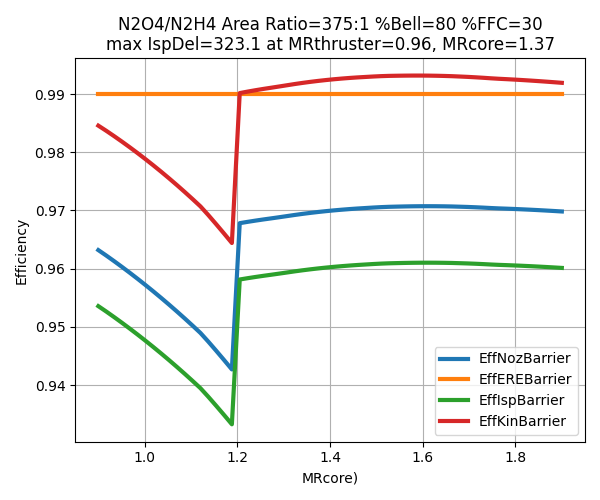
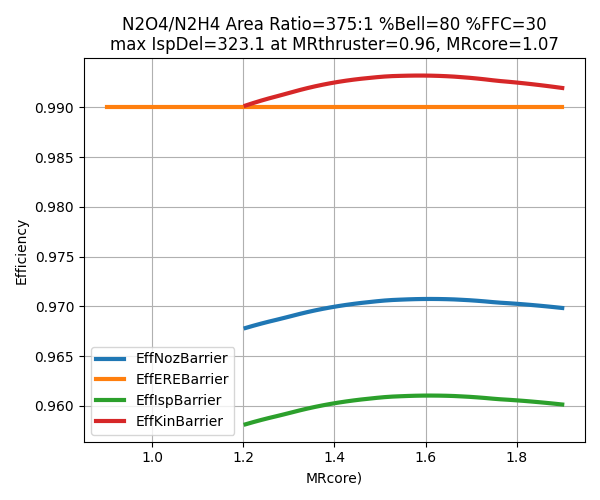
updated plots to account for FFC two phase flow

diff --git a/rocketisp/examples/plot_opt_mr_v2.py b/rocketisp/examples/plot_opt_mr_v2.py
@@ -19,6 +19,7 @@ ispodkL  = [] # list of IspODK  (one-dimensional kinetic)
 ispdelL  = [] # list of IspDel  (delivered Isp)
 mrnetL   = [] # list of MRthruster (net mixture ratio of core and barrier)
 mrcoreL  = [] # list of MRcore  (core stream tube mixture ratio)
+mrcore_good_ffcL = [] # list of MRcore where barrier remains all gas phase
 
 mrbarrL = [] # list of MRbarrier
 mrwallL = [] # list of MRwall
@@ -40,22 +41,30 @@ for MRcore in np.linspace( 0.9, 1.9, num=60 ):
     B = C.barrierObj
 
     ispodeL.append( C('IspODE') )
-    ispodkL.append( C('IspODK') )
-    ispdelL.append( C('IspDel') )
-    mrnetL.append( C('MRthruster') )
+    ispodkL.append( C('IspODK') )    
     mrcoreL.append( C('MRcore') )
 
     mrbarrL.append( B('MRbarrier') )
     mrwallL.append( B('MRwall') )
     twallgL.append( B('Twallgas') )
+
     ispodebarrL.append( B('IspODE_b') )
 
-    ispodfbarrL.append( B('IspODF_b') )
-    ispodkbarrL.append( B('IspODK_b') )
-    effnozbarrL.append( B('effNoz_b') )
     efferebarrL.append( B('effERE_b') )
-    effispbarrL.append( B('effIsp_b') )
-    effkinbarrL.append( B('effKin_b') )
+
+    if not B.warningL:
+        mrnetL.append( C('MRthruster') )
+        mrcore_good_ffcL.append( C('MRcore') )
+
+        ispdelL.append( C('IspDel') )
+        ispodfbarrL.append( B('IspODF_b') )
+        ispodkbarrL.append( B('IspODK_b') )
+
+        effnozbarrL.append( B('effNoz_b') )
+        
+        effispbarrL.append( B('effIsp_b') )
+        effkinbarrL.append( B('effKin_b') )
+
 
     
     #print( 'MRcore/MReng=%g/%g'%(MRcore, C('MRthruster')), '   effNoz=%g'%C.effObj('Noz'), '   effDiv=%g'%C.effObj('Div'), '   effBL=%g'%C.effObj('BL') )
@@ -105,10 +114,10 @@ plt.savefig( 'HiPAT_NTO_N2H4_TBarrier.png' )
 
 fig, ax = plt.subplots( figsize=(6,5) )
 
-plt.plot(mrcoreL, effnozbarrL, label='EffNozBarrier', linewidth=3)
+plt.plot(mrcore_good_ffcL, effnozbarrL, label='EffNozBarrier', linewidth=3)
 plt.plot(mrcoreL, efferebarrL, label='EffEREBarrier', linewidth=3)
-plt.plot(mrcoreL, effispbarrL, label='EffIspBarrier', linewidth=3)
-plt.plot(mrcoreL, effkinbarrL, label='EffKinBarrier', linewidth=3)
+plt.plot(mrcore_good_ffcL, effispbarrL, label='EffIspBarrier', linewidth=3)
+plt.plot(mrcore_good_ffcL, effkinbarrL, label='EffKinBarrier', linewidth=3)
 
 plt.legend()
 plt.grid()
@@ -127,8 +136,8 @@ plt.savefig( 'HiPAT_NTO_N2H4_EffBarrier.png' )
 fig, ax = plt.subplots( figsize=(6,5) )
 
 plt.plot(mrcoreL, ispodebarrL, label='IspODEbarr', linewidth=3)
-plt.plot(mrcoreL, ispodkbarrL, label='IspODKbarr', linewidth=3)
-plt.plot(mrcoreL, ispodfbarrL, label='IspODFbarr', linewidth=3)
+plt.plot(mrcore_good_ffcL, ispodkbarrL, label='IspODKbarr', linewidth=3)
+plt.plot(mrcore_good_ffcL, ispodfbarrL, label='IspODFbarr', linewidth=3)
 
 plt.legend()
 plt.grid()
@@ -147,7 +156,7 @@ plt.savefig( 'HiPAT_NTO_N2H4_IspBarrier.png' )
 fig, ax = plt.subplots( figsize=(6,5) )
 
 plt.plot(mrcoreL, mrcoreL, label='MRcore', linewidth=3)
-plt.plot(mrcoreL, mrnetL, label='MRengine', linewidth=3)
+plt.plot(mrcore_good_ffcL, mrnetL, label='MRengine', linewidth=3)
 plt.plot(mrcoreL, mrbarrL, label='MRbarrier', linewidth=3)
 plt.plot(mrcoreL, mrwallL, label='MRgas_at_wall', linewidth=3)
 

diff --git a/rocketisp/rocket_isp.py b/rocketisp/rocket_isp.py
@@ -34,6 +34,13 @@ from rocketisp._version import __version__
 __email__ = "cet@appliedpython.com"
 __status__ = "4 - Beta" # "3 - Alpha", "4 - Beta", "5 - Production/Stable"
 
+# numpy will throw a Warning if align parameter is not boolean (i.e. align=0 throws Warning)
+import warnings
+from numpy.exceptions import VisibleDeprecationWarning
+
+# Suppress this specific NumPy warning
+warnings.filterwarnings("ignore", category=VisibleDeprecationWarning, message=".*align should be passed as Python or NumPy boolean.*")
+
 from math import pi
 from scipy import optimize
 import numpy as np
@@ -491,7 +498,7 @@ class RocketThruster(object):
 
         if show_grid:
             plt.grid()
-        plt.legend(loc='best')
+        plt.legend(loc='best', ncol=2)
         plt.ylabel( 'Isp (sec)' )
         if self.coreObj.add_barrier:
             plt.xlabel( 'Mixture Ratio (Core and Thruster)' )

diff --git a/rocketisp/stream_tubes.py b/rocketisp/stream_tubes.py
@@ -181,7 +181,7 @@ class BarrierStream:
         self.IspODF_b *= self.coreObj.adjIspIdeal
         
         if self.IspODF_b < 10.0: # there's an error in frozen low MR CEA, so estimate from core 
-            self.warningL.append( 'WARNING... CEA failed frozen Isp for MR=%g'%self.MRbarrier  )
+            self.warningL.append( 'WARNING... Likely condensed species in CEA frozen Isp for MR=%g'%self.MRbarrier  )
             
             self.IspODF_b = self.IspODE_b * (self.coreObj.IspODF / self.coreObj.IspODE)
             
